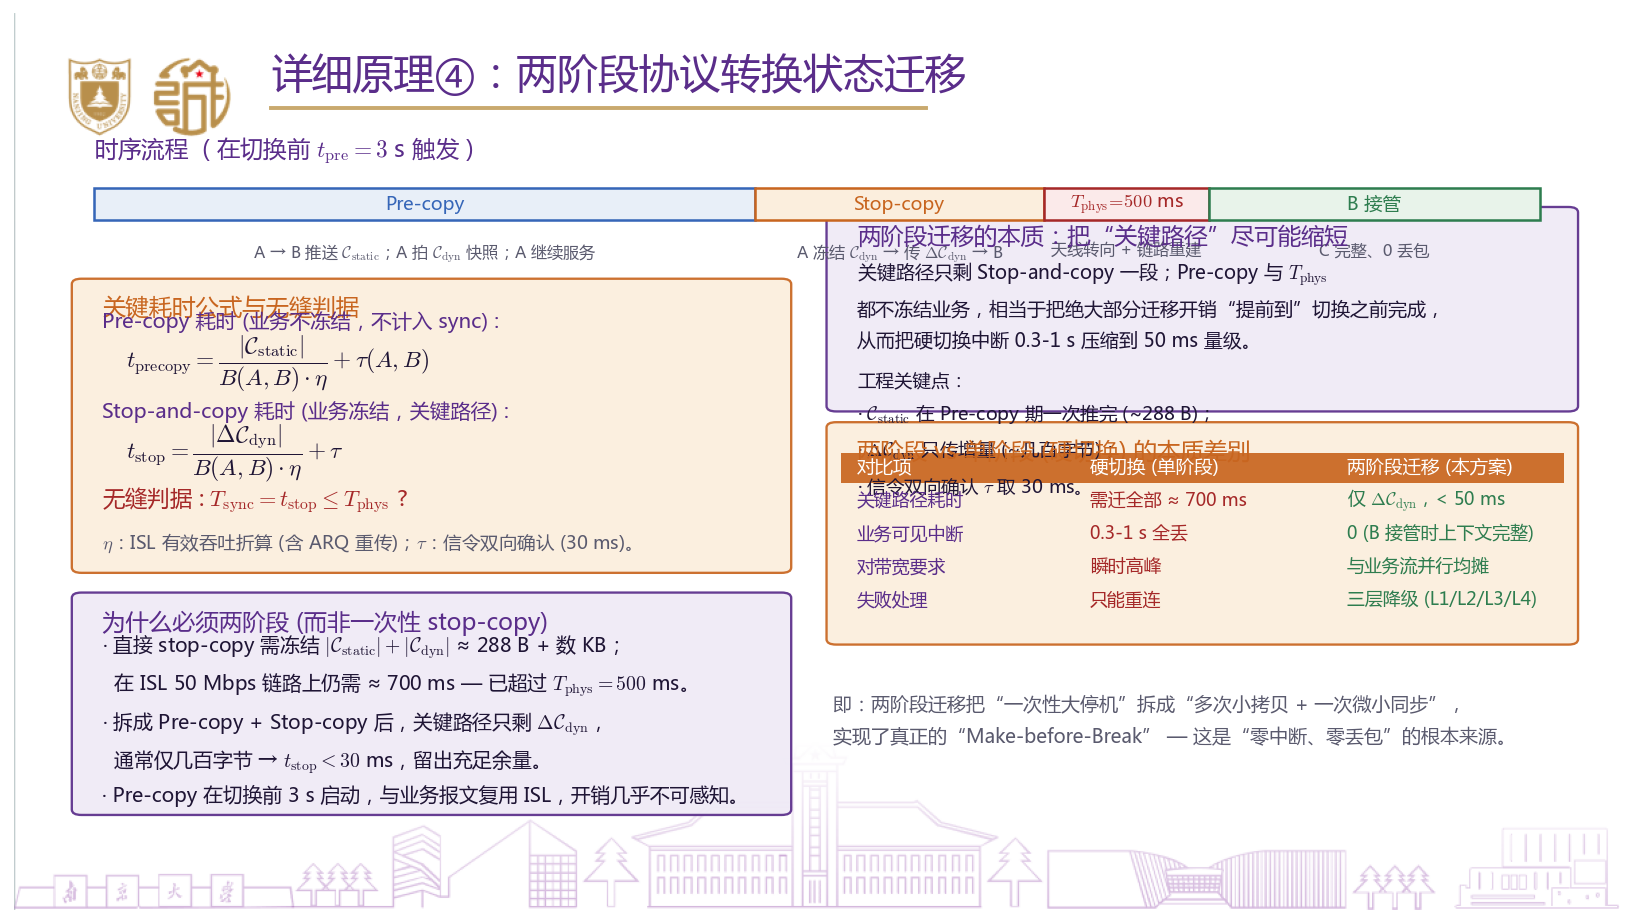
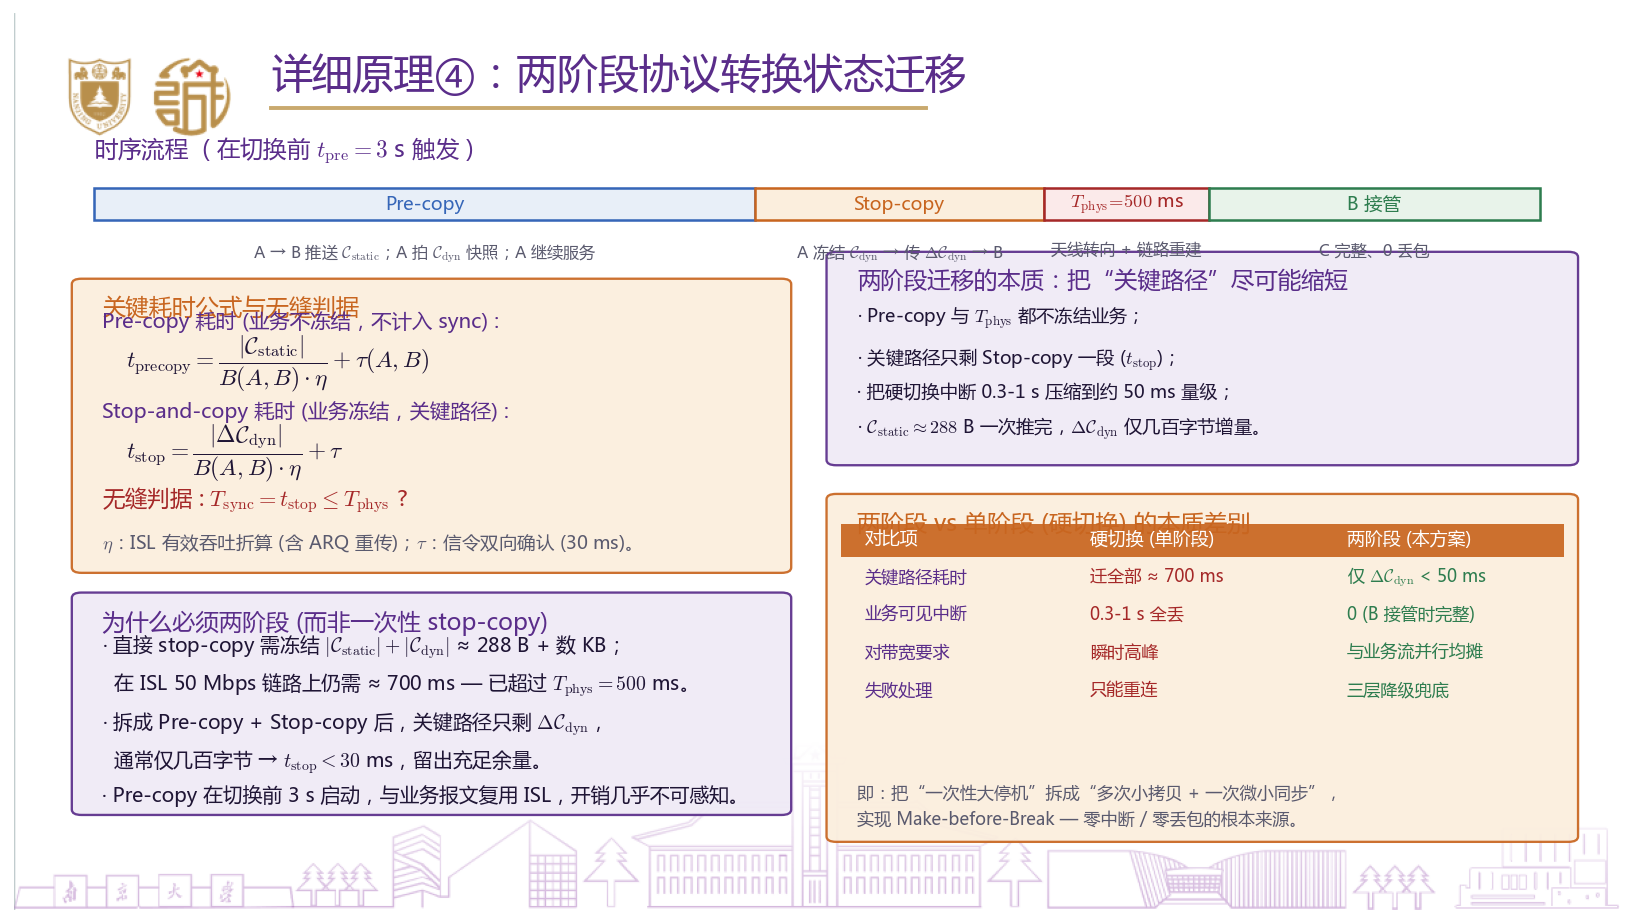
docs(ppt): fix slide 11 right-column overlap
Previous layout had:
- right_top panel y=56,h=22 (top edge 78) overlapping 1 unit into timeline bar
- right_top body overflowing 8 units below panel bottom into right_mid header

New layout:
- right_top y=50,h=23 (top 73; 4-unit gap to timeline)
- right_top body shrunk to 4 lines, all inside panel
- right_bottom (comparison table) y=8,h=38, with footnote moved inside

Changed region(s): [[0.4997, 0.2424, 0.9682, 0.9394], [0.9369, 0.2121, 0.9682, 0.2727]]

diff --git a/docs/build_ppt.py b/docs/build_ppt.py
@@ -805,50 +805,50 @@ def slide_11():
             '· Pre-copy 在切换前 3 s 启动，与业务报文复用 ISL，开销几乎不可感知。',
             fontsize=10.2, color=DARK, va='top', linespacing=1.55, zorder=10)
 
-    # 右：两阶段迁移的设计要点 + 与硬切换对照
-    title_panel(ax, 51, 56, 46, 22,
+    # 右上：两阶段迁移的本质  (y=50..73，与顶部时序条留 4 单位空白)
+    title_panel(ax, 51, 50, 46, 23,
                 '两阶段迁移的本质：把“关键路径”尽可能缩短',
                 color=PURPLE, fc=LIGHT_PURPLE)
-    ax.text(52.5, 72.5,
-            '关键路径只剩 Stop-and-copy 一段；Pre-copy 与 $T_{\\mathrm{phys}}$\n'
-            '都不冻结业务，相当于把绝大部分迁移开销“提前到”切换之前完成，\n'
-            '从而把硬切换中断 0.3-1 s 压缩到 50 ms 量级。',
-            fontsize=9.8, color=DARK, va='top', linespacing=1.7, zorder=10)
-    ax.text(52.5, 60,
-            '工程关键点：\n'
-            '· $\\mathcal{C}_{\\mathrm{static}}$ 在 Pre-copy 期一次推完 (~288 B)；\n'
-            '· $\\Delta\\mathcal{C}_{\\mathrm{dyn}}$ 只传增量 (~几百字节)；\n'
-            '· 信令双向确认 $\\tau$ 取 30 ms。',
-            fontsize=9.5, color=DARK, va='top', linespacing=1.65, zorder=10)
+    ax.text(52.5, 67.5,
+            '· Pre-copy 与 $T_{\\mathrm{phys}}$ 都不冻结业务；\n'
+            r'· 关键路径只剩 Stop-copy 一段 ($t_{\mathrm{stop}}$)；'
+            '\n'
+            r'· 把硬切换中断 0.3-1 s 压缩到约 50 ms 量级；'
+            '\n'
+            r'· $\mathcal{C}_{\mathrm{static}}\approx 288$ B 一次推完，'
+            r'$\Delta\mathcal{C}_{\mathrm{dyn}}$ 仅几百字节增量。',
+            fontsize=9.4, color=DARK, va='top', linespacing=1.75, zorder=10)
 
-    title_panel(ax, 51, 30, 46, 24,
+    # 右下：对比表  (y=8..46，与右上留 4 单位空白)
+    title_panel(ax, 51, 8, 46, 38,
                 '两阶段 vs 单阶段 (硬切换) 的本质差别',
                 color='#c8651f', fc=LIGHT_ORANGE)
     rows = [
-        ('对比项',         '硬切换 (单阶段)',     '两阶段迁移 (本方案)'),
-        ('关键路径耗时',   '需迁全部 ≈ 700 ms',   r'仅 $\Delta\mathcal{C}_{\mathrm{dyn}}$，< 50 ms'),
-        ('业务可见中断',   '0.3-1 s 全丢',         '0 (B 接管时上下文完整)'),
+        ('对比项',         '硬切换 (单阶段)',     '两阶段 (本方案)'),
+        ('关键路径耗时',   '迁全部 ≈ 700 ms',     r'仅 $\Delta\mathcal{C}_{\mathrm{dyn}}$ < 50 ms'),
+        ('业务可见中断',   '0.3-1 s 全丢',         '0 (B 接管时完整)'),
         ('对带宽要求',     '瞬时高峰',             '与业务流并行均摊'),
-        ('失败处理',       '只能重连',             '三层降级 (L1/L2/L3/L4)'),
+        ('失败处理',       '只能重连',             '三层降级兜底'),
     ]
-    col_xs = [52.5, 67, 83]
+    col_xs = [53, 67, 83]
+    y_top = 41
     for r, row in enumerate(rows):
-        y = 49 - r*3.7
+        y = y_top - r*4.2
         if r == 0:
-            ax.add_patch(Rectangle((51.5, y - 1.4), 45, 3.4, fc='#c8651f', alpha=0.92, zorder=3))
+            ax.add_patch(Rectangle((51.5, y - 1.6), 45, 3.6, fc='#c8651f', alpha=0.92, zorder=3))
             for c, v in enumerate(row):
-                ax.text(col_xs[c], y + 0.4, v, fontsize=9.5, color='white',
+                ax.text(col_xs[c], y + 0.4, v, fontsize=9.2, color='white',
                         weight='bold', va='center', zorder=11)
         else:
             for c, v in enumerate(row):
                 color = PURPLE if c == 0 else ('#a52828' if c == 1 else '#2e7d4f')
-                ax.text(col_xs[c], y + 0.4, v, fontsize=9.2, color=color,
+                ax.text(col_xs[c], y + 0.4, v, fontsize=8.8, color=color,
                         va='center', zorder=10)
-
-    ax.text(51, 24,
-            '即：两阶段迁移把“一次性大停机”拆成“多次小拷贝 + 一次微小同步”，\n'
-            r'实现了真正的“Make-before-Break” — 这是“零中断、零丢包”的根本来源。',
-            fontsize=9.8, color=GRAY, va='top', linespacing=1.7, style='italic', zorder=10)
+    # panel 底部注脚
+    ax.text(52.5, 14,
+            '即：把“一次性大停机”拆成“多次小拷贝 + 一次微小同步”，\n'
+            r'实现 Make-before-Break — 零中断 / 零丢包的根本来源。',
+            fontsize=8.8, color=GRAY, va='top', linespacing=1.55, style='italic', zorder=10)
     save(fig, '11_principle_twophase.png')
 
 # =========================================================